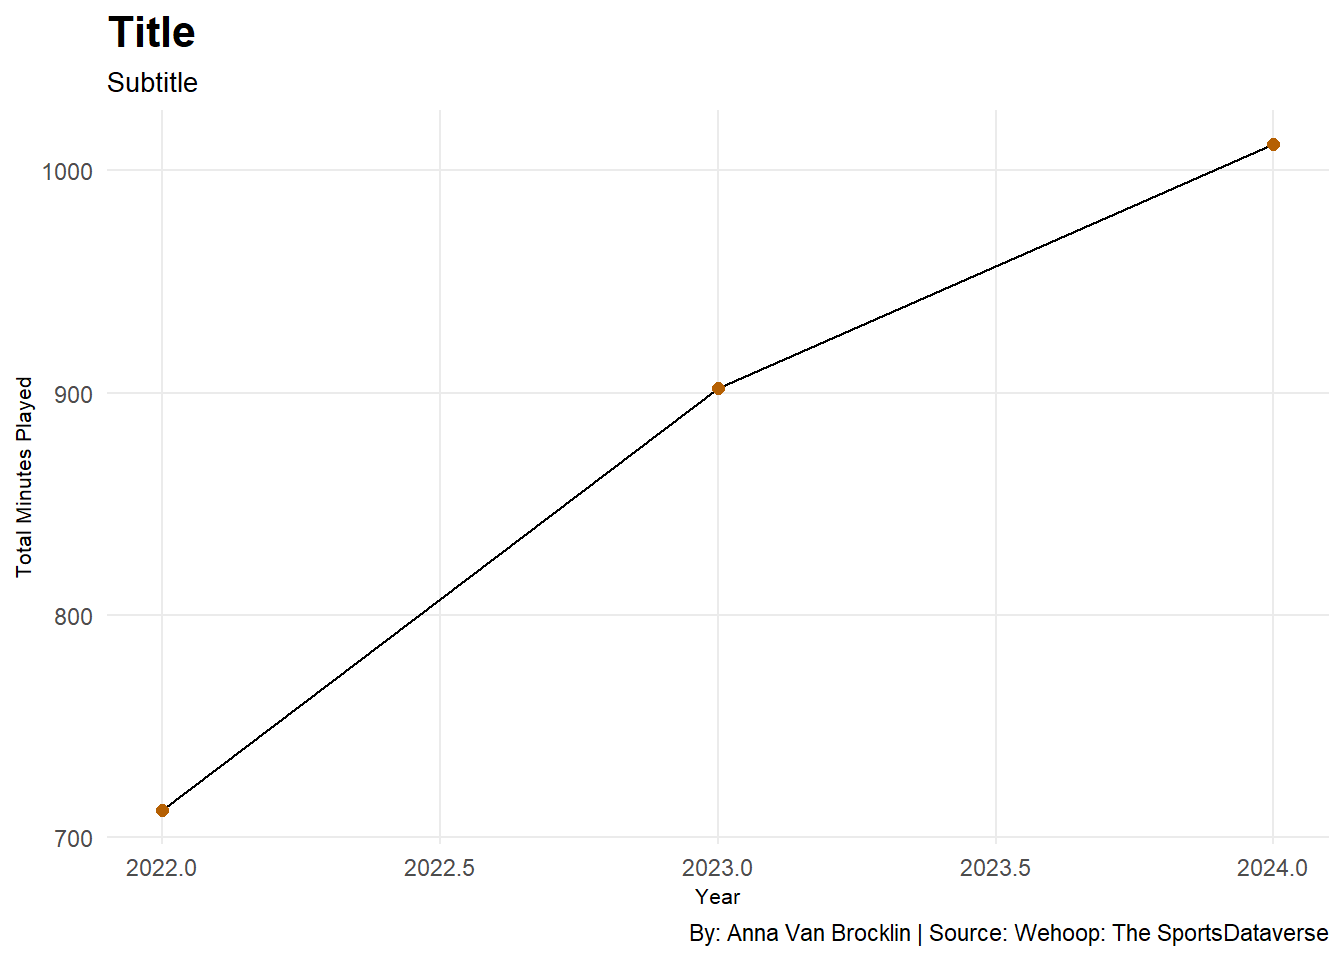
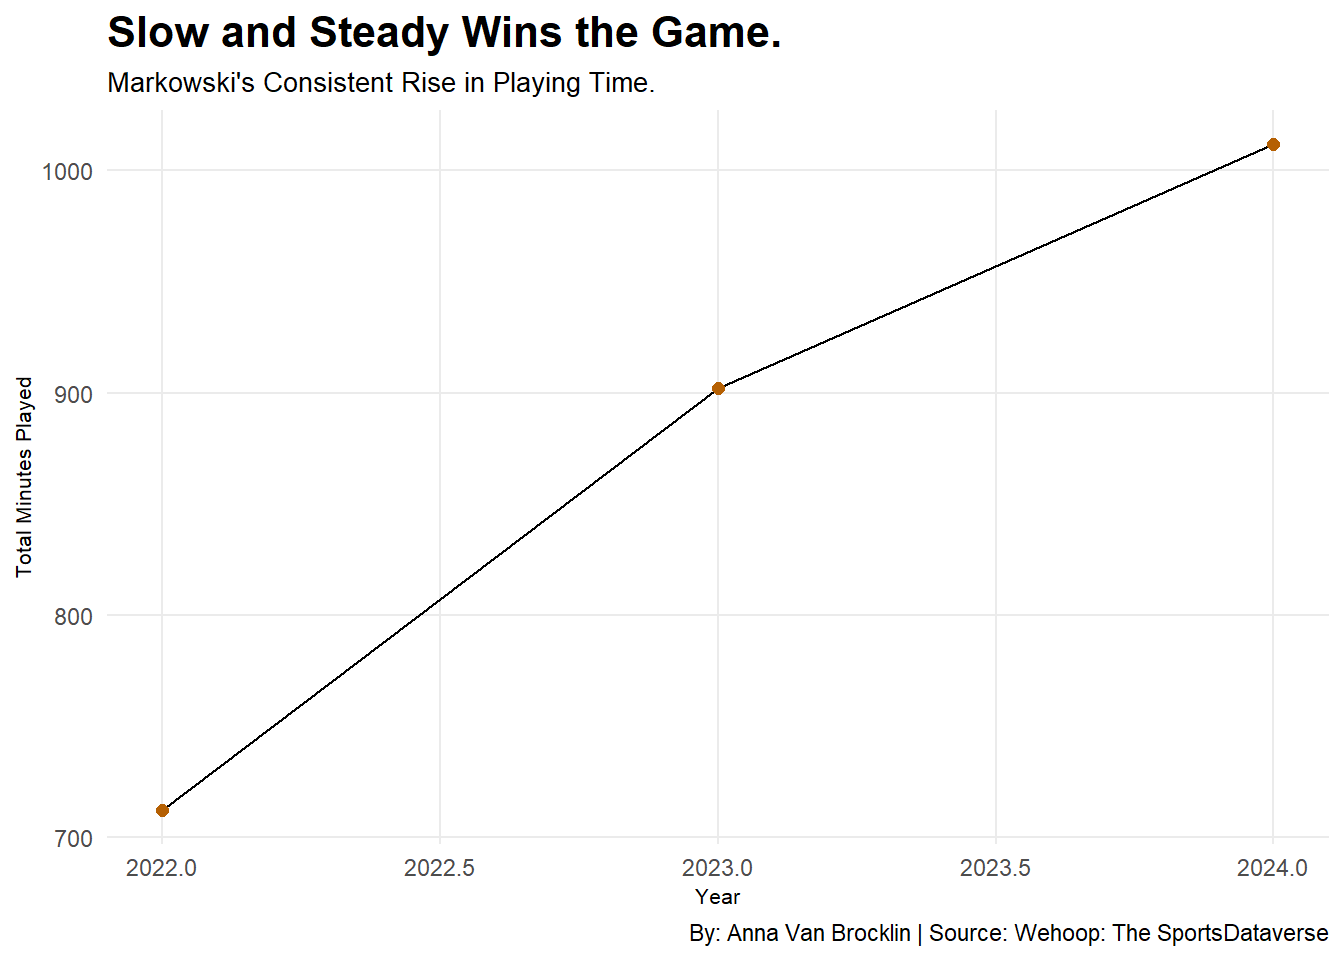
final touches

Changed region(s): [[0.0625, 0.0, 0.5938, 0.0938]]

diff --git a/posts/alexis-markowski-performance-nebraska-basketball/index.html b/posts/alexis-markowski-performance-nebraska-basketball/index.html
@@ -9,7 +9,7 @@
 <meta name="author" content="Anna Van Brocklin">
 <meta name="dcterms.date" content="2024-11-30">
 
-<title>Title – Anna's Sports Stories</title>
+<title>How Has Alexis Markowski’s Basketball Performance Evolved Over the Years? – Anna's Sports Stories</title>
 <style>
 code{white-space: pre-wrap;}
 span.smallcaps{font-variant: small-caps;}
@@ -154,7 +154,7 @@ pre > code.sourceCode > span > a:first-child::before { text-decoration: underlin
 <header id="title-block-header" class="quarto-title-block default page-columns page-full">
   <div class="quarto-title-banner page-columns page-full">
     <div class="quarto-title column-body">
-      <h1 class="title">Title</h1>
+      <h1 class="title">How Has Alexis Markowski’s Basketball Performance Evolved Over the Years?</h1>
                                 <div class="quarto-categories">
                 <div class="quarto-category">college basketball</div>
                 <div class="quarto-category">sports</div>
@@ -196,7 +196,9 @@ pre > code.sourceCode > span > a:first-child::before { text-decoration: underlin
 
 
 
-<p>Here is some story text.</p>
+<p>With outstanding achievements and recognition from her university and the nation, Alexis Markowski has become a significant player in women’s college basketball.</p>
+<p>The Nebraska native has begun her fourth year playing for the Nebraska Huskers.</p>
+<p>To fully assess Alexis Markowski’s performance evolution, we’ll examine several statistics across her prior seasons. By analyzing trends in points scored, minutes played, and other statistics like rebounds, steals, blocks, and assists, we can gain a valuable look into her development as a player.</p>
 <div class="cell">
 <details class="code-fold">
 <summary>Code</summary>
@@ -232,8 +234,8 @@ pre > code.sourceCode > span > a:first-child::before { text-decoration: underlin
 <span id="cb3-3"><a href="#cb3-3" aria-hidden="true" tabindex="-1"></a>  <span class="fu">geom_point</span>(<span class="at">size=</span><span class="dv">2</span>, <span class="at">color=</span><span class="st">"#B56003"</span>) <span class="sc">+</span></span>
 <span id="cb3-4"><a href="#cb3-4" aria-hidden="true" tabindex="-1"></a>  <span class="fu">labs</span>(<span class="at">x =</span> <span class="st">"Year"</span>, <span class="at">y =</span> <span class="st">"Total Minutes Played"</span>) <span class="sc">+</span></span>
 <span id="cb3-5"><a href="#cb3-5" aria-hidden="true" tabindex="-1"></a>  <span class="fu">labs</span>(</span>
-<span id="cb3-6"><a href="#cb3-6" aria-hidden="true" tabindex="-1"></a>    <span class="at">title =</span> <span class="st">"Title"</span>,</span>
-<span id="cb3-7"><a href="#cb3-7" aria-hidden="true" tabindex="-1"></a>    <span class="at">subtitle =</span> <span class="st">"Subtitle"</span>,</span>
+<span id="cb3-6"><a href="#cb3-6" aria-hidden="true" tabindex="-1"></a>    <span class="at">title =</span> <span class="st">"Slow and Steady Wins the Game."</span>,</span>
+<span id="cb3-7"><a href="#cb3-7" aria-hidden="true" tabindex="-1"></a>    <span class="at">subtitle =</span> <span class="st">"Markowski's Consistent Rise in Playing Time."</span>,</span>
 <span id="cb3-8"><a href="#cb3-8" aria-hidden="true" tabindex="-1"></a>    <span class="at">caption =</span> <span class="st">"By: Anna Van Brocklin | Source: Wehoop: The SportsDataverse"</span>,</span>
 <span id="cb3-9"><a href="#cb3-9" aria-hidden="true" tabindex="-1"></a>  ) <span class="sc">+</span></span>
 <span id="cb3-10"><a href="#cb3-10" aria-hidden="true" tabindex="-1"></a>  <span class="fu">theme_minimal</span>() <span class="sc">+</span></span>
@@ -258,6 +260,8 @@ pre > code.sourceCode > span > a:first-child::before { text-decoration: underlin
 <span id="cb4-3"><a href="#cb4-3" aria-hidden="true" tabindex="-1"></a><span class="co">#| warning: false</span></span></code><button title="Copy to Clipboard" class="code-copy-button"><i class="bi"></i></button></pre></div>
 </details>
 </div>
+<p>To best understand Markowski’s performance record, we need to first break down how she became the player she is today. By simply looking at Markowski’s minutes played, we can see a steady increase in playing time throughout her college career. While it is natural for a player’s minutes on the court to rise with experience, the increase we see hints that Markowski is heading in the right direction.</p>
+<p>This rise in playing time suggests the key player Markowski has become for the Huskers and that she is trusted to perform well consistently. We can additionally conclude that the team’s success has a significant reliance on Markowski’s contributions throughout each game.</p>
 <div class="cell">
 <details class="code-fold">
 <summary>Code</summary>
@@ -266,8 +270,8 @@ pre > code.sourceCode > span > a:first-child::before { text-decoration: underlin
 <span id="cb5-3"><a href="#cb5-3" aria-hidden="true" tabindex="-1"></a>  <span class="fu">geom_point</span>(<span class="at">size=</span><span class="dv">2</span>, <span class="at">color=</span><span class="st">"#B56003"</span>) <span class="sc">+</span></span>
 <span id="cb5-4"><a href="#cb5-4" aria-hidden="true" tabindex="-1"></a>  <span class="fu">labs</span>(<span class="at">x =</span> <span class="st">"Year"</span>, <span class="at">y =</span> <span class="st">"Total Points Scored"</span>) <span class="sc">+</span></span>
 <span id="cb5-5"><a href="#cb5-5" aria-hidden="true" tabindex="-1"></a>  <span class="fu">labs</span>(</span>
-<span id="cb5-6"><a href="#cb5-6" aria-hidden="true" tabindex="-1"></a>    <span class="at">title =</span> <span class="st">"Title"</span>,</span>
-<span id="cb5-7"><a href="#cb5-7" aria-hidden="true" tabindex="-1"></a>    <span class="at">subtitle =</span> <span class="st">"Subtitle"</span>,</span>
+<span id="cb5-6"><a href="#cb5-6" aria-hidden="true" tabindex="-1"></a>    <span class="at">title =</span> <span class="st">"A Scoring Surge."</span>,</span>
+<span id="cb5-7"><a href="#cb5-7" aria-hidden="true" tabindex="-1"></a>    <span class="at">subtitle =</span> <span class="st">"Markowski's Total Points Each Year."</span>,</span>
 <span id="cb5-8"><a href="#cb5-8" aria-hidden="true" tabindex="-1"></a>    <span class="at">caption =</span> <span class="st">"By: Anna Van Brocklin | Source: Wehoop: The SportsDataverse"</span></span>
 <span id="cb5-9"><a href="#cb5-9" aria-hidden="true" tabindex="-1"></a>  ) <span class="sc">+</span></span>
 <span id="cb5-10"><a href="#cb5-10" aria-hidden="true" tabindex="-1"></a>  <span class="fu">theme_minimal</span>() <span class="sc">+</span></span>
@@ -286,6 +290,9 @@ pre > code.sourceCode > span > a:first-child::before { text-decoration: underlin
 </div>
 </div>
 </div>
+<p>The next finding from the data is similar to our previous plot as it shows the progression of points scored over Markowski’s past three seasons.</p>
+<p>This graph reveals a significant upward trend in Markowski’s scoring ability. Her increase in total points scored from 2022 to 2024 indicates a progressive improvement in her offensive skills. Markowski’s increase in points could be attributed to factors such as increased playing time. However, we also can determine that some of the points came from Markowski’s enhanced shooting accuracy and improved decision-making on the court.</p>
+<p>While she suffered a lack of points in her second year compared to her first, Markowski scored an impressive 549 points in her third season with the Huskers, which ultimately led to breaking over 1,000 points in 2023. This drive speaks to Markowski’s effort and hard work during the preseason and her improved ability to score.</p>
 <div class="cell">
 <details class="code-fold">
 <summary>Code</summary>
@@ -294,8 +301,8 @@ pre > code.sourceCode > span > a:first-child::before { text-decoration: underlin
 <span id="cb6-3"><a href="#cb6-3" aria-hidden="true" tabindex="-1"></a>  <span class="fu">facet_wrap</span>(<span class="sc">~</span>year) <span class="sc">+</span></span>
 <span id="cb6-4"><a href="#cb6-4" aria-hidden="true" tabindex="-1"></a>  <span class="fu">labs</span>(<span class="at">x =</span> <span class="st">"Total Minutes Played"</span>, <span class="at">y =</span> <span class="st">"Total Points Scored"</span>) <span class="sc">+</span> </span>
 <span id="cb6-5"><a href="#cb6-5" aria-hidden="true" tabindex="-1"></a>    <span class="fu">labs</span>(</span>
-<span id="cb6-6"><a href="#cb6-6" aria-hidden="true" tabindex="-1"></a>    <span class="at">title =</span> <span class="st">"Title"</span>,</span>
-<span id="cb6-7"><a href="#cb6-7" aria-hidden="true" tabindex="-1"></a>    <span class="at">subtitle =</span> <span class="st">"Subtitle"</span>,</span>
+<span id="cb6-6"><a href="#cb6-6" aria-hidden="true" tabindex="-1"></a>    <span class="at">title =</span> <span class="st">"An Impressive Comeback."</span>,</span>
+<span id="cb6-7"><a href="#cb6-7" aria-hidden="true" tabindex="-1"></a>    <span class="at">subtitle =</span> <span class="st">"A Comparison of Playing Time to Points Scored."</span>,</span>
 <span id="cb6-8"><a href="#cb6-8" aria-hidden="true" tabindex="-1"></a>    <span class="at">caption =</span> <span class="st">"By: Anna Van Brocklin | Source: Wehoop: The SportsDataverse"</span></span>
 <span id="cb6-9"><a href="#cb6-9" aria-hidden="true" tabindex="-1"></a>  ) <span class="sc">+</span></span>
 <span id="cb6-10"><a href="#cb6-10" aria-hidden="true" tabindex="-1"></a>  <span class="fu">theme</span>(</span>
@@ -313,6 +320,9 @@ pre > code.sourceCode > span > a:first-child::before { text-decoration: underlin
 </div>
 </div>
 </div>
+<p>We can next take the knowledge we have to consider the relationship between Markowski’s minutes played and points scored. This graph forms a clearer picture of the difference in each season while collecting each element into one graphic.</p>
+<p>Looking at Markowski’s first season, we can see that this season provided the least amount of playing time for her. In her second year, we see the playing time increase significantly, but a slight drop in overall points. Lastly, in her third season, we see an increase in playing time and vast jump points.</p>
+<p>This graph supports the correlation between points scored and minutes played across the three seasons, in addition to the improvements and skills that Markowski has demonstrated in her time with the Huskers. As Markowski’s playing time increases, so does her scoring output. This suggests that she is efficient in converting her playing time into points.</p>
 <div class="cell">
 <details class="code-fold">
 <summary>Code</summary>
@@ -335,8 +345,8 @@ pre > code.sourceCode > span > a:first-child::before { text-decoration: underlin
 <span id="cb8-8"><a href="#cb8-8" aria-hidden="true" tabindex="-1"></a>                    <span class="at">labels =</span> <span class="fu">c</span>(<span class="st">"Blocks"</span>, <span class="st">"Defensive Rebounds"</span>, <span class="st">"Steals"</span>, <span class="st">"Assists"</span>, <span class="st">"Points"</span>)) <span class="sc">+</span></span>
 <span id="cb8-9"><a href="#cb8-9" aria-hidden="true" tabindex="-1"></a>  <span class="fu">labs</span>(<span class="at">x =</span> <span class="st">"Year"</span>, <span class="at">y =</span> <span class="st">"Number"</span>, <span class="at">fill =</span> <span class="st">"Key"</span>) <span class="sc">+</span></span>
 <span id="cb8-10"><a href="#cb8-10" aria-hidden="true" tabindex="-1"></a>  <span class="fu">labs</span>(</span>
-<span id="cb8-11"><a href="#cb8-11" aria-hidden="true" tabindex="-1"></a>    <span class="at">title =</span> <span class="st">"Title"</span>,</span>
-<span id="cb8-12"><a href="#cb8-12" aria-hidden="true" tabindex="-1"></a>    <span class="at">subtitle =</span> <span class="st">"Subtitle"</span>,</span>
+<span id="cb8-11"><a href="#cb8-11" aria-hidden="true" tabindex="-1"></a>    <span class="at">title =</span> <span class="st">"An Upward Trend for Markowski."</span>,</span>
+<span id="cb8-12"><a href="#cb8-12" aria-hidden="true" tabindex="-1"></a>    <span class="at">subtitle =</span> <span class="st">"A Year-by-Year Breakdown of Markowski's Average Statistics."</span>,</span>
 <span id="cb8-13"><a href="#cb8-13" aria-hidden="true" tabindex="-1"></a>    <span class="at">caption =</span> <span class="st">"By: Anna Van Brocklin | Source: Wehoop: The SportsDataverse"</span>,</span>
 <span id="cb8-14"><a href="#cb8-14" aria-hidden="true" tabindex="-1"></a>    <span class="at">x =</span> <span class="st">"Year"</span>,</span>
 <span id="cb8-15"><a href="#cb8-15" aria-hidden="true" tabindex="-1"></a>    <span class="at">y =</span> <span class="st">"Average Totals"</span></span>
@@ -357,6 +367,10 @@ pre > code.sourceCode > span > a:first-child::before { text-decoration: underlin
 </div>
 </div>
 </div>
+<p>Lastly, to further understand Markowski’s progression in her performance, we’ll take a look at multiple of her average stats per game. We of course find points at the top of Markowski’s stats, with the same pattern we looked at before. At her peak performance in 2023, Markowski was scoring an average of just over 15 points per game, leading to wonder if this trend will continue in the current season. Up next is Markowski’s defensive rebound, with a nice upward trend. We see the same for her average assists, however, Markowski’s steals have remained decently consistent and her number of blocks has slightly decreased.</p>
+<p>From this detailed breakdown, we have a better idea of Markowski’s various statistics indicating that Markowski has become a well-rounded player and contributes to the team both defensively and offensively.</p>
+<p>Markowski’s performance over the last three seasons shows that she is trending upward. Her increased scoring ability, in addition to her role in the team, and improved efficiency in converting minutes into points on the court is noteworthy.</p>
+<p>With the direction she is heading at the start of a new season, Markowski has the potential to further grow and not only make significant contributions to the Huskers’ success but prove to be one of the most valuable college players in the nation.</p>
 
 
 

diff --git a/index.html b/index.html
@@ -247,7 +247,7 @@ window.Quarto = {
 
 <div class="quarto-listing quarto-listing-container-default" id="listing-listing">
 <div class="list quarto-listing-default">
[2 lines of base64/hex data omitted]
 <div class="thumbnail">
 <p><a href="./posts/alexis-markowski-performance-nebraska-basketball/index.html" class="no-external"></a></p><a href="./posts/alexis-markowski-performance-nebraska-basketball/index.html" class="no-external">
 <p><img loading="lazy" src="./posts/alexis-markowski-performance-nebraska-basketball/image.png" class="thumbnail-image"></p>
@@ -275,7 +275,7 @@ nebraska
 </div>
 </div>
 <div class="listing-description">
-<a href="./posts/alexis-markowski-performance-nebraska-basketball/index.html" class="no-external">Here is some story text.</a>
+<a href="./posts/alexis-markowski-performance-nebraska-basketball/index.html" class="no-external">With outstanding achievements and recognition from her university and the nation, Alexis Markowski has become a significant player in women’s college basketball.</a>
 </div>
 </div>
 <div class="metadata">
